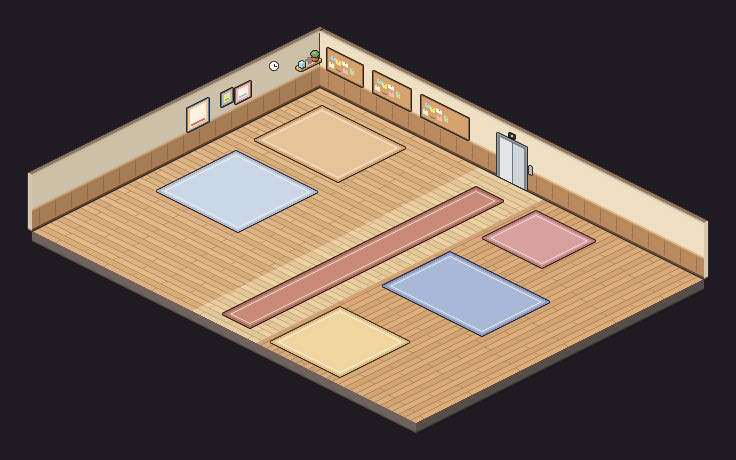
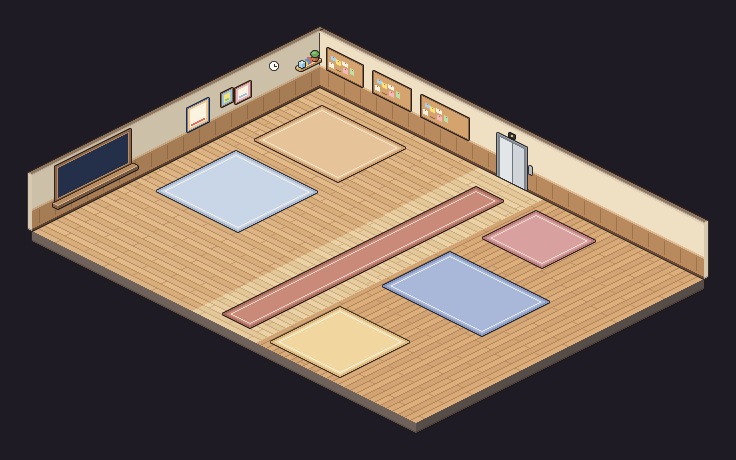
Preciso corrigir o que eu disse: não recebi imagem nenhuma na sua…

Changed region(s): [[0.0625, 0.2739, 0.1875, 0.4565]]

diff --git a/src/renderer/src/world2d/renderer.ts b/src/renderer/src/world2d/renderer.ts
@@ -1,7 +1,8 @@
 import type { Look } from '@shared/types'
 import type { TotemView } from '@shared/routines'
 import type { ScreenMode } from './floor'
-import type { CasaAct, CasaFlat } from './casa'
+import type { CasaAct, CasaFlat, CasaLayout } from './casa'
+import { skyPeriod, skyPixels } from './window-sky'
 import type { EstudosFlat, StudyAct } from './estudos'
 import { sharedAtlas } from './atlas'
 import { depthSort, type Footprint } from './depth'
@@ -141,6 +142,8 @@ interface PersonItem extends Item {
 }
 
 const ZOOM_MAX = 3
+/** Native pixels the pixel bubbles rise, to clear the name tag that sits right over the head. */
+const BUBBLE_RAISE = 14
 const LED_COLORS: Record<TotemView['led'], string> = { ok: '#2ee86b', wait: '#ffc02e', fail: '#ff3b4a', none: '#6b6a7d' }
 /** 3x5 glyphs of the routines board's screen, rows top to bottom, '1' = lit. */
 const GLYPHS: Record<string, string> = {
@@ -447,7 +450,7 @@ export class Renderer2d {
 
   /** What the cache shows: the desks, their monitors, the rooms' lights. */
   private staticKey(view: FlatView): string {
-    if (view.floor.kind === 'casa') return JSON.stringify(['casa', view.totem?.screen ?? null, view.totem?.led ?? null])
+    if (view.floor.kind === 'casa') return JSON.stringify(['casa', view.totem?.screen ?? null, view.totem?.led ?? null, skyPeriod(new Date().getHours())])
     if (view.floor.kind !== 'project') return view.floor.kind
     const { plan, crts } = view.floor
     return JSON.stringify([
@@ -484,6 +487,10 @@ export class Renderer2d {
     this.cache.height = ch
     const c = this.cctx
     c.drawImage(this.baseOf(view), 0, 0)
+    if (view.floor.kind === 'casa') {
+      const glass = this.windowGlass(view.floor.layout)
+      c.drawImage(glass.img, glass.x, glass.y)
+    }
     for (const item of this.items) for (const sp of item.sprites) this.put(c, sp)
     this.shades(c, view)
     this.cacheKey = key
@@ -587,7 +594,8 @@ export class Renderer2d {
       if (!kind) return null
       const f = `bubble/${kind}`
       const a = this.atlas.anchors[f] ?? [0, 0]
-      return { f, x: x - a[0], y: y - a[1] }
+      // above the name tag, which now sits close to the head
+      return { f, x: x - a[0], y: y - a[1] - BUBBLE_RAISE }
     }
     const push = (p: Person2d, fp: Footprint, sprites: Sprite[], char: Sprite, bubble: Sprite | null, seat?: SeatArt) => {
       const box = this.bounds(sprites)
@@ -817,6 +825,35 @@ export class Renderer2d {
       }
     })
     return { f: 'totem/screen', x: left, y: top(0), img: c }
+  }
+
+  /**
+   * The glass of the window on the west wall (plane x=0), painted for the hour: each column of the
+   * wall steps down half a pixel, like the routines board's screen. One pixel inside the frame.
+   */
+  private windowGlass(layout: CasaLayout): { x: number; y: number; img: HTMLCanvasElement } {
+    const c = document.createElement('canvas')
+    const [wy0, wy1, wz0, wz1] = layout.window
+    const y0 = wy0 + 1
+    const y1 = wy1 - 1
+    const z0 = wz0 + 1
+    const z1 = wz1 - 1
+    const w = y1 - y0
+    const zh = z1 - z0
+    const top = (u: number) => Math.floor(layout.origin[1] + (y0 + u) / 2 - z1)
+    c.width = w
+    c.height = zh + top(w - 1) - top(0) + 1
+    const g = c.getContext('2d')!
+    const sky = skyPixels(skyPeriod(new Date().getHours()), w, zh)
+    for (let u = 0; u < w; u++) {
+      // y grows to the lower left: the first column of the canvas is the last of the wall
+      const k = w - 1 - u
+      for (let v = 0; v < zh; v++) {
+        g.fillStyle = sky[v]![u]!
+        g.fillRect(k, top(u) - top(0) + v, 1, 1)
+      }
+    }
+    return { x: layout.origin[0] - y1 + 1, y: top(0), img: c }
   }
 
   private hoverRect(view: FlatView): Rect {

diff --git a/src/renderer/src/world2d/window-sky.ts b/src/renderer/src/world2d/window-sky.ts
@@ -1,0 +1,54 @@
+// What the Casa's window shows: the sky for the hour of the day. Pure (no DOM), so a test checks it.
+
+export type SkyPeriod = 'morning' | 'day' | 'evening' | 'night'
+
+/** Morning 5-10, day 10-17, evening 17-19, night otherwise. */
+export function skyPeriod(hour: number): SkyPeriod {
+  if (hour >= 5 && hour < 10) return 'morning'
+  if (hour >= 10 && hour < 17) return 'day'
+  if (hour >= 17 && hour < 19) return 'evening'
+  return 'night'
+}
+
+const SKY: Record<SkyPeriod, [string, string]> = {
+  morning: ['#8fc6f0', '#ffd9a8'],
+  day: ['#5fa8ee', '#bfe3ff'],
+  evening: ['#5b4a8a', '#ff9a62'],
+  night: ['#0d1230', '#27305c'],
+}
+const STARS: [number, number][] = [
+  [0.1, 0.12],
+  [0.28, 0.4],
+  [0.45, 0.1],
+  [0.62, 0.3],
+  [0.8, 0.5],
+  [0.2, 0.7],
+  [0.55, 0.6],
+  [0.9, 0.15],
+]
+const FRAME = '#8a6448'
+
+const mix = (a: string, b: string, t: number): string => {
+  const p = (c: string, i: number) => parseInt(c.slice(1 + i * 2, 3 + i * 2), 16)
+  const ch = (i: number) => Math.round(p(a, i) + (p(b, i) - p(a, i)) * t)
+  return `#${[0, 1, 2].map((i) => ch(i).toString(16).padStart(2, '0')).join('')}`
+}
+
+/** The colour of each pixel of a w×h window (row 0 on top), with its sun or moon, stars and cross bars. */
+export function skyPixels(period: SkyPeriod, w: number, h: number): string[][] {
+  const [top, bottom] = SKY[period]
+  const disc = (cx: number, cy: number, r: number, u: number, v: number) => Math.hypot(u - cx * w, v - cy * h) <= r
+  return Array.from({ length: h }, (_, v) =>
+    Array.from({ length: w }, (_, u) => {
+      if (Math.abs(u - (w - 1) / 2) < 1 || Math.abs(v - (h - 1) / 2) < 1) return FRAME
+      if (period === 'morning' && disc(0.2, 0.7, 4, u, v)) return '#ffe27a'
+      if (period === 'day' && disc(0.72, 0.22, 4, u, v)) return '#fff3a8'
+      if (period === 'evening' && disc(0.8, 0.72, 5, u, v)) return '#ffb347'
+      if (period === 'night') {
+        if (disc(0.72, 0.3, 4, u, v) && !disc(0.72 + 0.06, 0.3 - 0.04, 4, u, v)) return '#f4f1d0'
+        if (STARS.some(([sx, sy]) => Math.round(sx * w) === u && Math.round(sy * h) === v)) return '#ffffff'
+      }
+      return mix(top, bottom, h > 1 ? v / (h - 1) : 0)
+    }),
+  )
+}

diff --git a/src/renderer/src/game/types.ts b/src/renderer/src/game/types.ts
@@ -8,7 +8,7 @@ import type { HelperReturn } from './helper-return'
 import type { HomeAction } from '../world2d/home-layout'
 import type { StudyAct, Teacher } from '../world2d/estudos'
 
-export type Goal = 'desk' | 'boss' | 'meeting' | 'hang' | 'home' | 'leave' | 'chat'
+export type Goal = 'desk' | 'boss' | 'meeting' | 'hang' | 'home' | 'leave' | 'chat' | 'seat'
 
 export interface Actor {
   id: string
@@ -158,10 +158,10 @@ export interface GameHooks {
   onStudy?(act: StudyAct, teacher?: Teacher): void
 }
 
-/** How much higher (tiles) the HTML tags float than their anchors: over the sprites' pixel bubbles. */
+/** How much higher (tiles) the HTML tags float than their anchors (with the avatar's own anchor they sit just over the head). */
 export const TAG_LIFT = 1.2
-/** Height (tiles) of a sitter's tag: low over the head, above the pixel bubble while one shows. */
-export const sitterTagY = (bubble: unknown): number => (bubble ? 1.7 : 0.35)
+/** Height (tiles) of a sitter's tag: low over the head; the pixel bubble goes above it (renderer BUBBLE_RAISE), the tag never climbs. */
+export const sitterTagY = (_bubble?: unknown): number => 0.35
 /** Seconds the camera gets to reach a dismissed agent before the skull drops. */
 export const STRIKE_AFTER_S = 0.6
 /** An idle agent waits at its desk this long before wandering off to the lounge. */

diff --git a/test/window-sky.test.ts b/test/window-sky.test.ts
@@ -1,0 +1,19 @@
+import { describe, expect, it } from 'vitest'
+import { skyPeriod, skyPixels } from '../src/renderer/src/world2d/window-sky'
+
+describe('janela da Casa', () => {
+  it('troca o céu por hora: manhã, dia, entardecer e noite', () => {
+    expect([4, 5, 9, 10, 16, 17, 18, 19, 23, 0].map(skyPeriod)).toEqual([
+      'night', 'morning', 'morning', 'day', 'day', 'evening', 'evening', 'night', 'night', 'night',
+    ])
+  })
+
+  it('pinta o tamanho pedido, com a cruz do caixilho e céu diferente de dia e de noite', () => {
+    const day = skyPixels('day', 30, 20)
+    const night = skyPixels('night', 30, 20)
+    expect(day).toHaveLength(20)
+    expect(day[0]).toHaveLength(30)
+    expect(day[3]![14]).toBe('#8a6448')
+    expect(day[0]![0]).not.toBe(night[0]![0])
+  })
+})

diff --git a/src/renderer/src/world2d/casa.ts b/src/renderer/src/world2d/casa.ts
@@ -44,6 +44,8 @@ export interface CasaLayout {
   couch: Omit<SeatArt, 'seat' | 'back' | 'front'>[]
   /** The routines board's face (+y), art units: x0, x1, y, z0, z1; the next routine shows there. */
   totem: [number, number, number, number, number]
+  /** The window glass on the west wall (plane x=0), art units: y0, y1, z0, z1; the app paints the sky for the hour. */
+  window: [number, number, number, number]
   elevator: {
     tile: [number, number]
     point: [number, number]

diff --git a/src/renderer/src/game/study.ts b/src/renderer/src/game/study.ts
@@ -19,7 +19,7 @@ import { Walker } from '../world2d/walker'
 import { sitterTagY, TAG_LIFT } from './types'
 
 /** Height (tiles) of a standing teacher's tag anchor, as an Avatar's. */
-const STAND_TAG_Y = 1.55
+const STAND_TAG_Y = 0.55
 
 /** The tags over the study floor's clickable things, by the name estudos.json gives their spot. */
 const OBJECT_TAGS: [string, StudyAct][] = [

diff --git a/test/avatar2d.test.ts b/test/avatar2d.test.ts
@@ -24,7 +24,7 @@ describe('Avatar 2D (sem three.js)', () => {
     expect(av.pose).toBe('stand')
     av.update(1)
     expect(av.anchor.x).toBeCloseTo(av.position.x)
-    expect(av.anchor.y).toBeGreaterThan(1)
+    expect(av.anchor.y).toBeGreaterThan(0.5)
   })
 
   it('a caveira derruba: fica no chão, a tag desce e levanta de novo', () => {

diff --git a/src/renderer/src/world2d/avatar.ts b/src/renderer/src/world2d/avatar.ts
@@ -15,7 +15,7 @@ export interface Uniform {
 
 const SNAP = Math.PI / 4
 /** Height of the name tag over the feet (tiles). */
-const TAG_Y = 1.55
+const TAG_Y = 0.55
 
 /** Where the name tag of an avatar floats: over its head, low while it is knocked out. */
 class TagAnchor {

diff --git a/scripts/pixel-art/scene_casa2.py b/scripts/pixel-art/scene_casa2.py
@@ -34,8 +34,10 @@ VOCE_DESK = (70, 266, 36)
 # footprints of the clickable furniture (export_app.py tags the items with these)
 SKULL = (146, 20, 154, 28)
 RADIO = (2, 30, 14, 64)
-# the 'Rotinas de agentes' board: in the back corner of Luna's table room, by the half wall, clear of the doors and chairs
-TOTEM = (142, 100, 156, 110)
+# the 'Rotinas de agentes' board: against the west wall of Luna's table room, clear of the doors, chairs and the window
+TOTEM = (6, 176, 20, 186)
+# the window on the west wall by the user's corner: y0, y1, z0, z1 (the glass is drawn by the app: morning, day, evening, night)
+WINDOW = (192, 262, 20, 50)
 WRITING = (306, 14, 322, 50)
 FILMS_TV = (228, 120, 238, 146)
 ARCADES = [(228, 216, 238, 228), (228, 232, 238, 244), (228, 248, 238, 260)]
@@ -71,6 +73,15 @@ def totem(L, x, y):
         L.qy(y + 5, x + 5, x + 12, zz + 1, zz + 2, H('8a7a6a'))
 
 
+def window_frame(L):
+    """the wood frame and sill of the west-wall window; the app paints the glass for the time of day."""
+    y0, y1, z0, z1 = WINDOW
+    L.begin(); L.qx(0, y0 - 3, y1 + 3, z0 - 3, z1 + 3, H('8a6448')); L.end()
+    L.qx(0, y0 - 1, y1 + 1, z0 - 1, z1 + 1, H('b98c5f'))
+    L.qx(0, y0, y1, z0, z1, H('24304a'))
+    L.pbox(0, y0 - 5, z0 - 6, 5, y1 - y0 + 10, 3, T('b98c5f', '8a6448', '73563f'))
+
+
 def board(L, x0, x1):
     F.corkboard_y(L, 0, x0, x1, 22, 42)
 
@@ -86,6 +97,7 @@ def shell(L):
     F.rug(L, 20, 18, 104, 86, H('e7c39a'), H('cf9f72'), H('fbe9c8'))
     # wall decor (west wall of the sala de estar)
     G.wall_shelf_x(L, 0, 4, 24, 30)
+    window_frame(L)
     G.clock_x(L, 0, 46, 44)
     F.frame_x(L, 0, 70, 84, 26, 40)
     F.frame_x(L, 0, 88, 98, 30, 42, art=('9cc4dc', 'f6e27a', '8cc477'))
@@ -206,7 +218,7 @@ def build():
     half_wall(sc, 1)
     media(sc)
     # plaques of the preview (the app shows names on hover instead)
-    sc.label('Rotinas de agentes', 149, 104, 40)
+    sc.label('Rotinas de agentes', TOTEM[0] + 7, TOTEM[1] + 4, 40)
     sc.label('Entrada', 192, 284)
     for a_, b_, _act, n in BOARDS:
         sc.label(n, (a_ + b_) / 2, 0, WALL_H + 2, dy=-6)

diff --git a/scripts/pixel-art/export_app.py b/scripts/pixel-art/export_app.py
@@ -440,7 +440,7 @@ def casa(L, place, items, seat):
     # tags (HTML) over the clickable things: art units x, y and height
     tags = {n: [(a + b) / 2, 0, 46] for a, b, _act, n in C.BOARDS}
     tags.update({
-        'Claude FM': [8, 47, 34], 'Caveira': [150, 24, 34], 'Rotinas de agentes': [149, 104, 40],
+        'Claude FM': [8, 47, 34], 'Caveira': [150, 24, 34], 'Rotinas de agentes': [C.TOTEM[0] + 7, C.TOTEM[1] + 4, 40],
         'Novo agente': [80, 270, 40], 'Livros': [306, 4, 44], 'Escrita': [314, 32, 30],
         'Filmes': [233, 133, 34], 'Jogos': [233, 238, 38], 'Gastos': [218, 0, 54], 'Alarme': [168, 0, 54],
     })
@@ -486,6 +486,8 @@ def casa(L, place, items, seat):
         'couch': couch,
         # the routines board's face (+y): x0, x1, y, z0, z1; the app draws the next routine there
         'totem': [C.TOTEM[0] + 1, C.TOTEM[2] - 1, C.TOTEM[1] + 5, 17, 33],
+        # the window glass on the west wall (plane x=0): y0, y1, z0, z1; the app paints the sky for the hour
+        'window': list(C.WINDOW),
     }
     with open(os.path.join(APP, 'casa.json'), 'w', encoding='utf8') as f:
         json.dump(layout, f, separators=(',', ':'), ensure_ascii=False)
